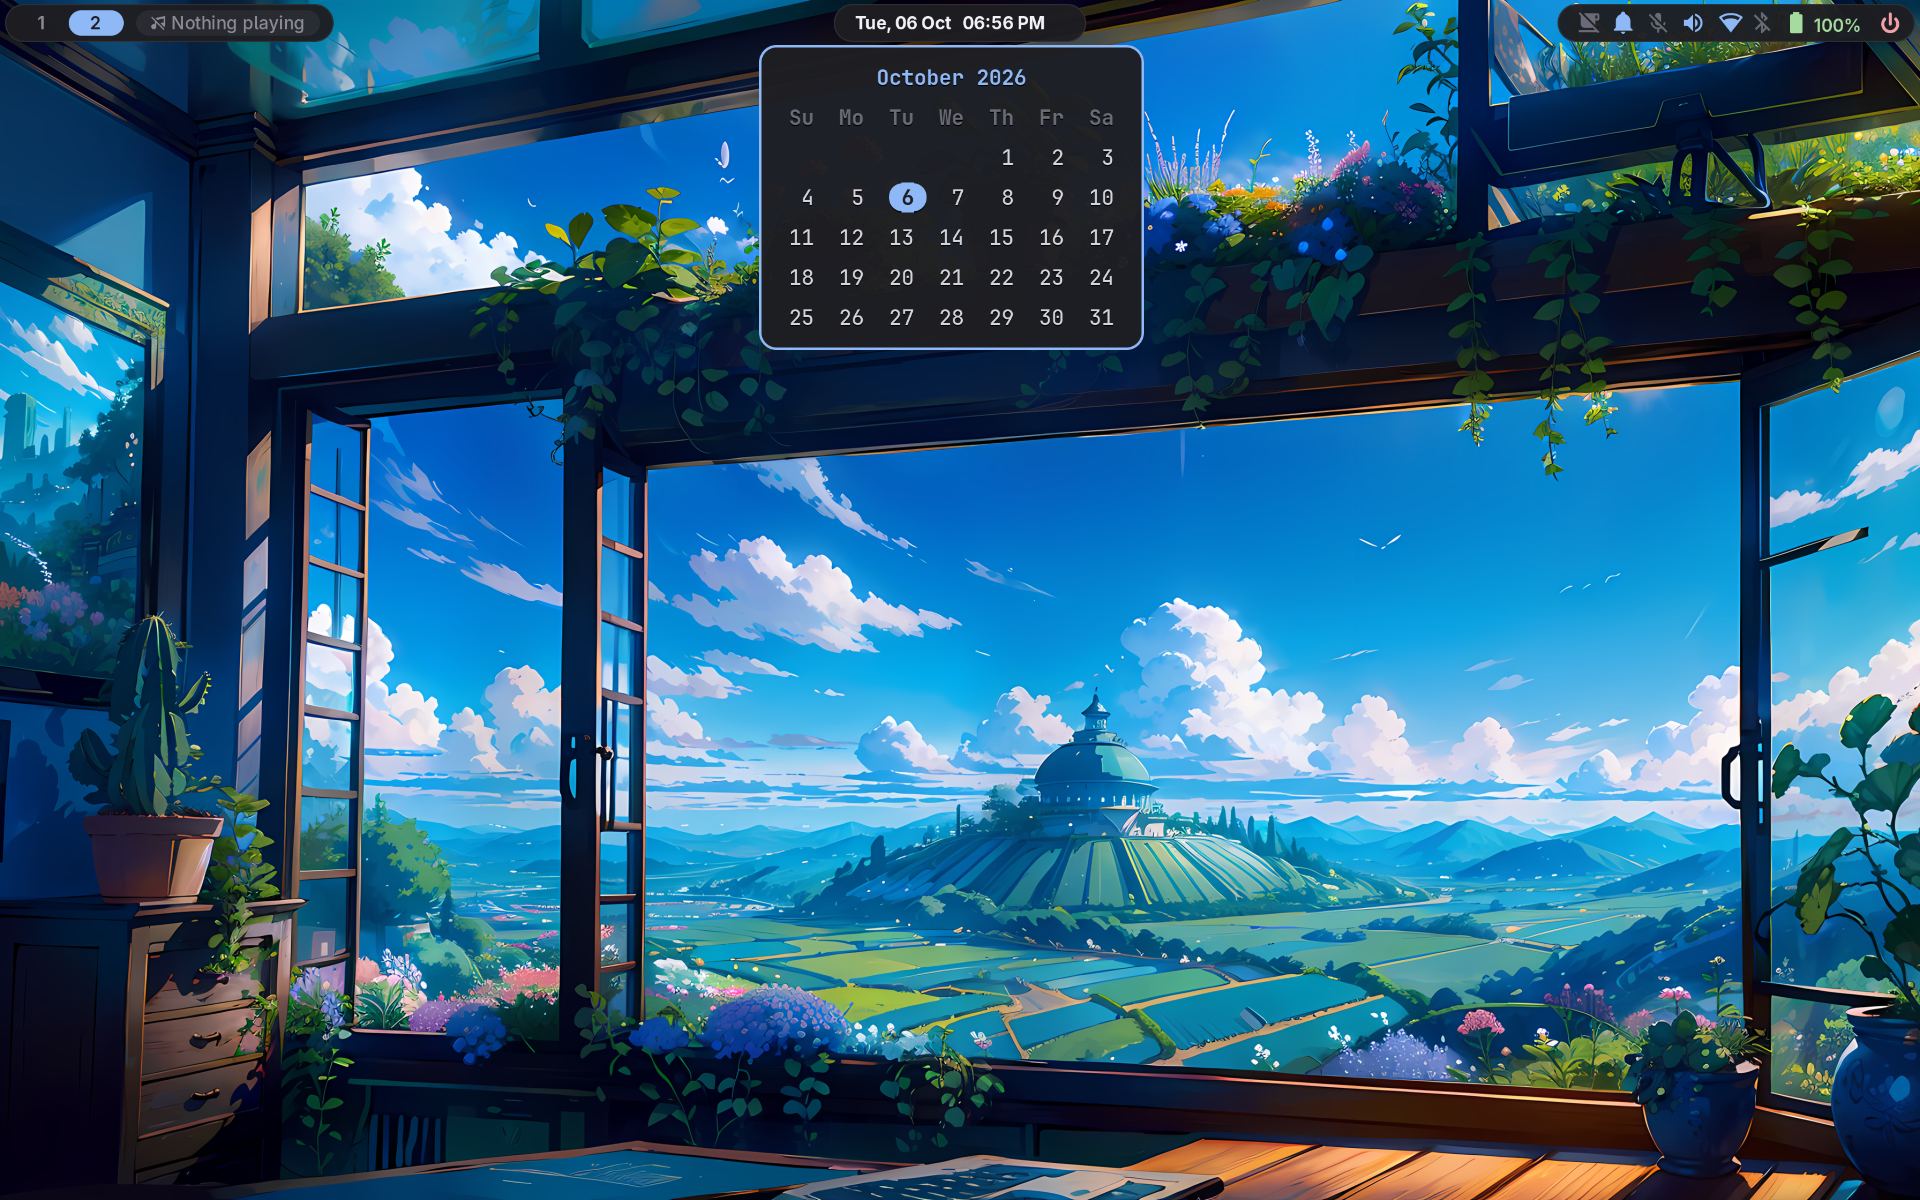
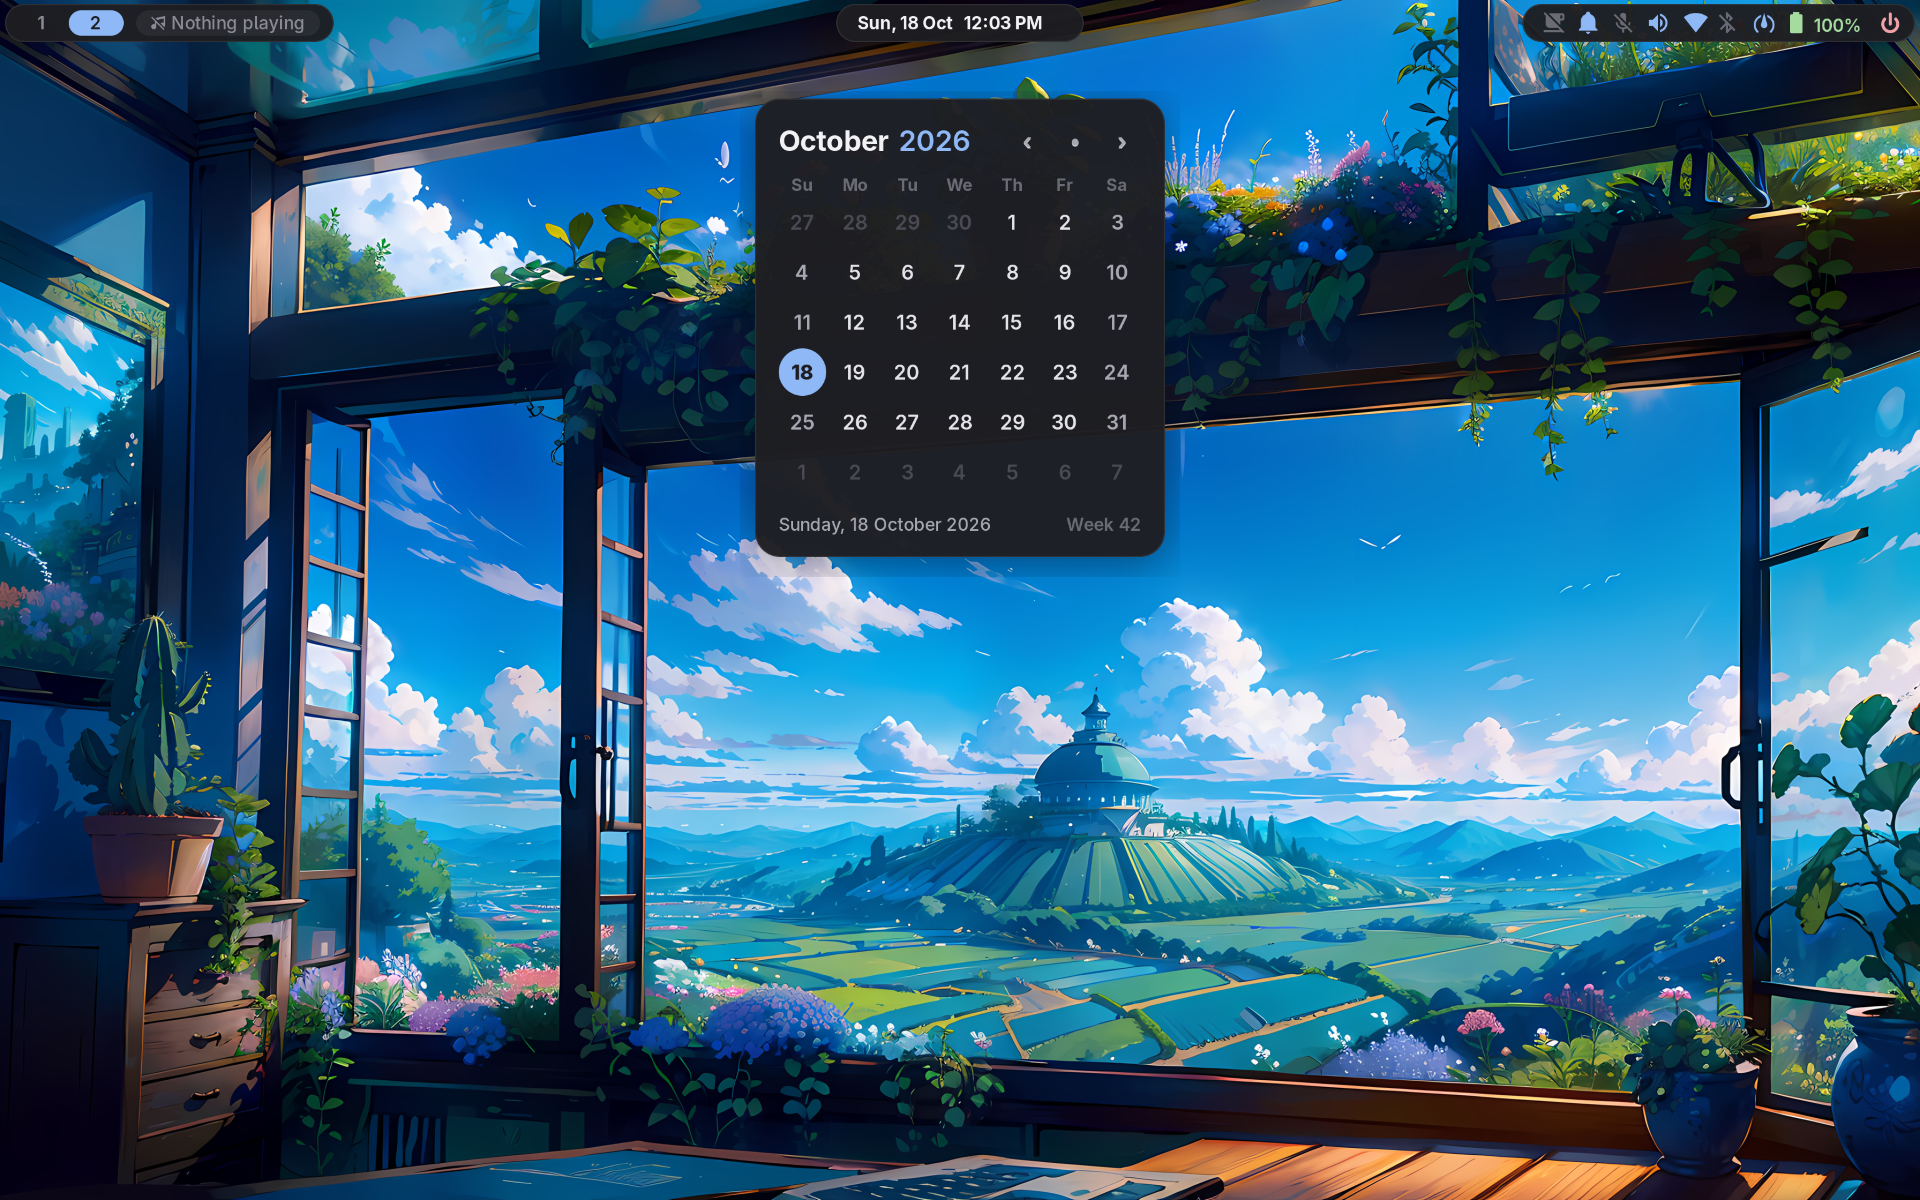
Calendar card on click and Mod+Alt+M

Changed region(s): [[0.375, 0.0, 0.625, 0.4933], [0.7812, 0.0, 0.9375, 0.0308]]

diff --git a/waybar/.config/waybar/style.css b/waybar/.config/waybar/style.css
@@ -39,7 +39,7 @@ window#waybar {
     padding: 0 8px;
 }
 
-#clock, #custom-clock {
+#clock {
     padding: 0 10px 0 8px;
     font-weight: 700;
 }

diff --git a/README.md b/README.md
@@ -175,6 +175,7 @@ Most are toggles: press again to undo.
 | `Mod + Alt + N` | Night light |
 | `Mod + Alt + T` | Switch apps between light and dark |
 | `Mod + Alt + C` | Clear all notifications |
+| `Mod + Alt + M` | Calendar (press again to close) |
 | `Mod + Alt + H` | Notification history (pick one to copy its text) |
 | `Mod + Alt + R` | Start or stop recording in OBS |
 | `Mod + Alt + V` | Clipboard history |
@@ -214,13 +215,20 @@ or `Ctrl + C` to copy. Either one closes the editor.
 | Island | What's there |
 | --- | --- |
 | **Left** | Workspaces · now playing (click: play/pause, right-click: next) |
-| **Centre** | Date and time (hover: calendar, scroll: change month, click: back to today) · current window |
+| **Centre** | Date and time (click: calendar) · current window |
 | **Right** | Tray · keep awake · do not disturb · microphone · volume · Wi-Fi · Bluetooth · power profile · battery · power |
 
 Hover over any icon to see what its clicks do. The colours follow one rule:
 **blue means on, grey means off**. Every crossed-out icon (muted,
 disconnected, do not disturb) is grey. Battery is green, turning yellow and
 then pink when low.
+
+### Calendar
+
+Tap the clock or press `Mod + Alt + M` to open a calendar card under it,
+and do the same again (or press `Esc`) to close it. It stays open until you do. Scroll, use the arrows, or
+press `←` / `→` to change month; the dot or `T` jumps back to today. The
+footer shows today's date and week number.
 
 ### Locking and sleep
 
@@ -262,7 +270,8 @@ otherwise.
 | Monitor layout and scaling | `niri/.config/niri/config.kdl` | Add an `output` block; run `niri msg outputs` to get names |
 | Bar icons and their order | `waybar/.config/waybar/config.jsonc`, `modules-right` | Restart the bar: `pkill waybar; waybar &` |
 | Bar colours and sizes | `waybar/.config/waybar/style.css` | Colours are defined at the top; restart the bar |
-| Clock format, week start | `scripts/.local/bin/waybar-calendar` | 12-hour clock and Sunday-first by default |
+| Bar clock format | `waybar/.config/waybar/config.jsonc`, `clock` | 12-hour by default; restart the bar |
+| Calendar look, week start | `scripts/.local/bin/calendar-popup` | Sunday-first by default (`FIRST_WEEKDAY`) |
 | Idle and lock timers | `scripts/.local/bin/idle-watch` | In seconds; log in again to apply |
 | Lock screen look, clock format | `gtklock/.config/gtklock/style.css`, `config.ini` | Takes effect the next time you lock |
 | Night light warmth | `niri/.config/niri/config.kdl`, the `Mod+Alt+N` line | `-t 4000` is the colour temperature in kelvin |
@@ -344,7 +353,8 @@ Helper commands, which you can also run yourself in a terminal:
 | `screenshot-annotate` | Select an area, then open it in swappy |
 | `idle-watch [awake]` | The idle timers, started by niri at login |
 | `battery-watch` | The low-battery warnings, started by niri at login |
-| `osd`, `lockscreen-bg`, `waybar-calendar`, `waybar-media` | Used internally by the commands above |
+| `calendar-popup` | Open or close the calendar card |
+| `osd`, `lockscreen-bg`, `waybar-media` | Used internally by the commands above |
 
 ## Troubleshooting
 
